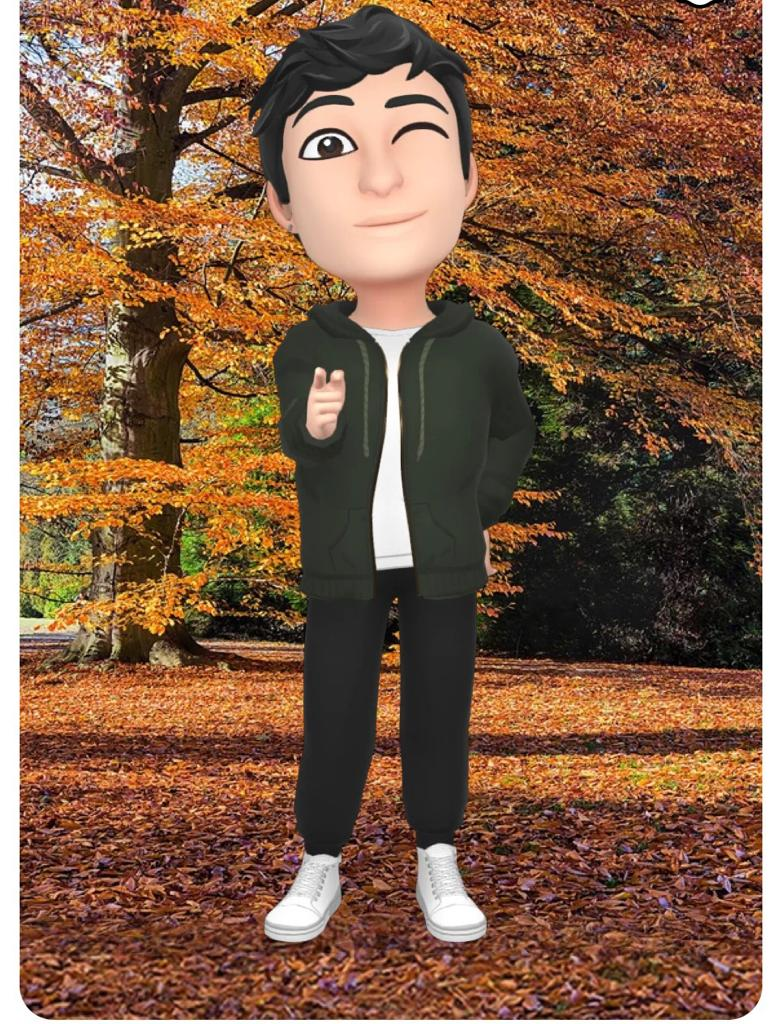
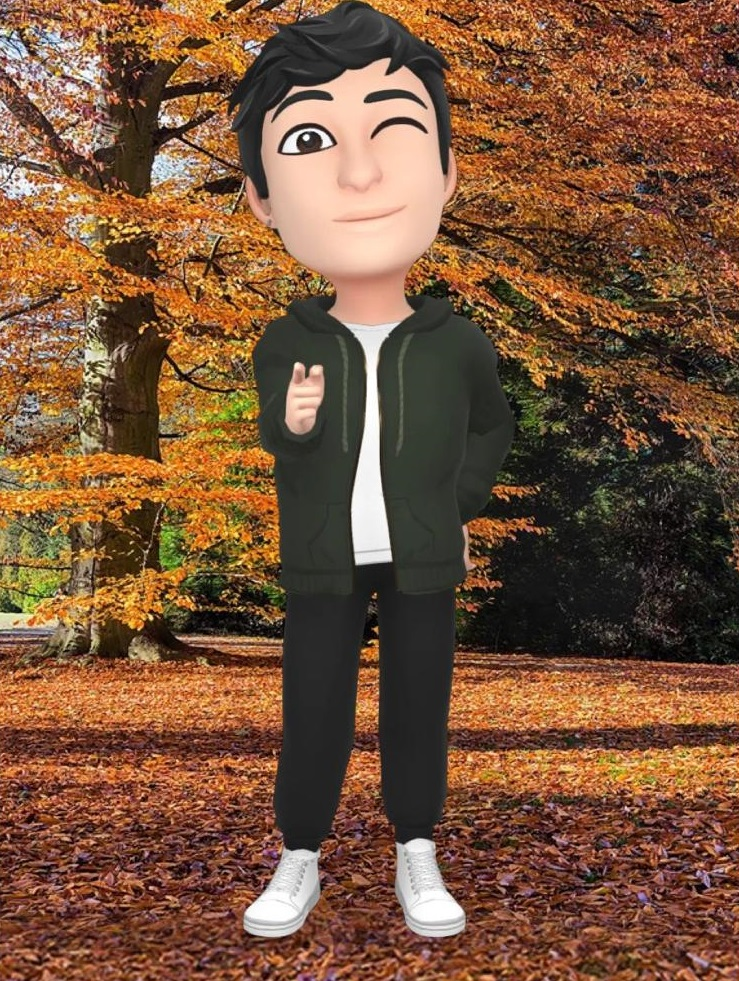
calendar added + phone validation + img updated

diff --git a/signups/signup_sa.html b/signups/signup_sa.html
@@ -26,6 +26,20 @@
   <meta name="robots" content="noindex, follow">
   <script
     nonce="e7526cfe-f2d8-4f1a-b589-b1136fc55724">(function (w, d) { !function (Z, _, ba, bb) { Z.zarazData = Z.zarazData || {}; Z.zarazData.executed = []; Z.zaraz = { deferred: [], listeners: [] }; Z.zaraz.q = []; Z.zaraz._f = function (bc) { return function () { var bd = Array.prototype.slice.call(arguments); Z.zaraz.q.push({ m: bc, a: bd }) } }; for (const be of ["track", "set", "debug"]) Z.zaraz[be] = Z.zaraz._f(be); Z.zaraz.init = () => { var bf = _.getElementsByTagName(bb)[0], bg = _.createElement(bb), bh = _.getElementsByTagName("title")[0]; bh && (Z.zarazData.t = _.getElementsByTagName("title")[0].text); Z.zarazData.x = Math.random(); Z.zarazData.w = Z.screen.width; Z.zarazData.h = Z.screen.height; Z.zarazData.j = Z.innerHeight; Z.zarazData.e = Z.innerWidth; Z.zarazData.l = Z.location.href; Z.zarazData.r = _.referrer; Z.zarazData.k = Z.screen.colorDepth; Z.zarazData.n = _.characterSet; Z.zarazData.o = (new Date).getTimezoneOffset(); Z.zarazData.q = []; for (; Z.zaraz.q.length;) { const bl = Z.zaraz.q.shift(); Z.zarazData.q.push(bl) } bg.defer = !0; for (const bm of [localStorage, sessionStorage]) Object.keys(bm || {}).filter((bo => bo.startsWith("_zaraz_"))).forEach((bn => { try { Z.zarazData["z_" + bn.slice(7)] = JSON.parse(bm.getItem(bn)) } catch { Z.zarazData["z_" + bn.slice(7)] = bm.getItem(bn) } })); bg.referrerPolicy = "origin"; bg.src = "../../../cdn-cgi/zaraz/sd0d9.js?z=" + btoa(encodeURIComponent(JSON.stringify(Z.zarazData))); bf.parentNode.insertBefore(bg, bf) };["complete", "interactive"].includes(_.readyState) ? zaraz.init() : Z.addEventListener("DOMContentLoaded", zaraz.init) }(w, d, 0, "script"); })(window, document);</script>
+  <style>
+    input[type="date"]::-webkit-calendar-picker-indicator {
+      background: transparent;
+      bottom: 0;
+      color: transparent;
+      cursor: pointer;
+      height: auto;
+      left: 0;
+      position: absolute;
+      right: 0;
+      top: 0;
+      width: auto;
+    }
+  </style>
 </head>
 
 <body>
@@ -66,7 +80,7 @@
             </span>
           </div>
           <div class="wrap-input100 validate-input" data-validate="Date of birth is required">
-            <input class="input100" type="text" name="dob" placeholder="DOB(YYYY/MM/DD)">
+            <input class="input100" type="date" value="1952-01-01" min ="1952-01-01" max="2002-12-30" name="dob">
             <span class="focus-input100"></span>
             <span class="symbol-input100">
               <i class="fa fa-calendar" aria-hidden="true"></i>
@@ -80,7 +94,7 @@
             </span>
           </div>
           <div class="container-login100-form-btn">
-            <button class="login100-form-btn" type = "submit">
+            <button class="login100-form-btn" type="submit">
               Create Account
             </button>
           </div>

diff --git a/signups/js/main.js b/signups/js/main.js
@@ -1,13 +1,23 @@
 (function ($) {
     "use strict";
-    var input = $('.validate-input .input100'); $('.validate-form').on('submit', function () {
+    var input = $('.validate-input .input100'); 
+    $('.validate-form').on('submit', function () 
+    {
         var check = true; for (var i = 0; i < input.length; i++) { if (validate(input[i]) == false) { showValidate(input[i]); check = false; } }
         return check;
-    }); $('.validate-form .input100').each(function () { $(this).focus(function () { hideValidate(this); }); }); function validate(input) {
-        if ($(input).attr('type') == 'email' || $(input).attr('name') == 'email') {
+    });
+    $('.validate-form .input100').each(function () { $(this).focus(function () { hideValidate(this); }); }); 
+    function validate(input) {
+        if ($(input).attr('type') == 'email' || $(input).attr('name') == 'email') 
+        {
             if ($(input).val().trim().match(/^([a-zA-Z0-9_\-\.]+)@((\[[0-9]{1,3}\.[0-9]{1,3}\.[0-9]{1,3}\.)|(([a-zA-Z0-9\-]+\.)+))([a-zA-Z]{1,5}|[0-9]{1,3})(\]?)$/) == null) { return false; }
         }
-        else {
+        else if($(input).attr('name') == 'phone')
+        {
+            if (!($(input).val().match(/^\d{10}$/))) { return false; }
+        }
+        else 
+        {
             if ($(input).val().trim() == '') { return false; }
         }
     }

diff --git a/php/sa_signup.php b/php/sa_signup.php
@@ -2,7 +2,7 @@
 $selected_radio = $_POST['sa'];
 if($selected_radio == 's')
 {
-    $con = mysqli_connect("localhost","root","","project");
+    $con = mysqli_connect("localhost","root","passwordisroot","project");
     if(!$con)
     {
         echo "Failed to connect to MYSQL: " . mysqli_connect_error();
